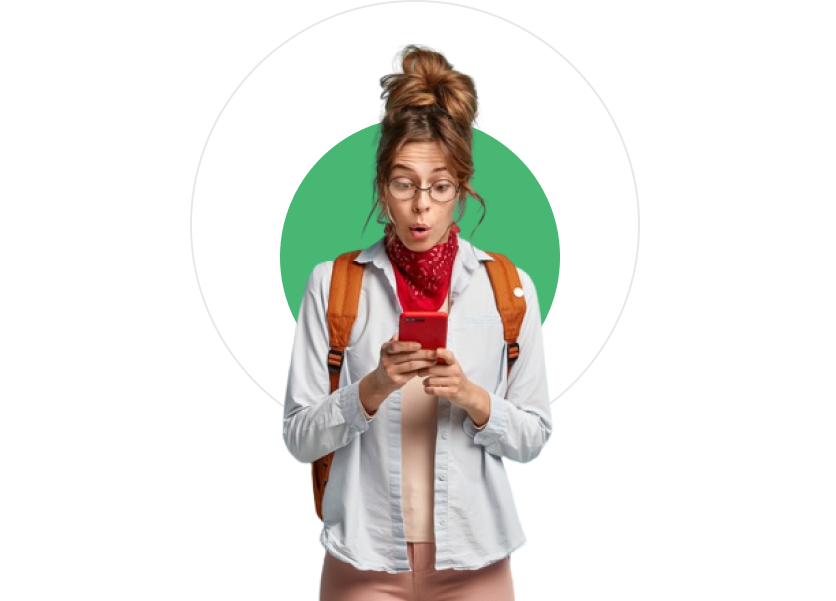
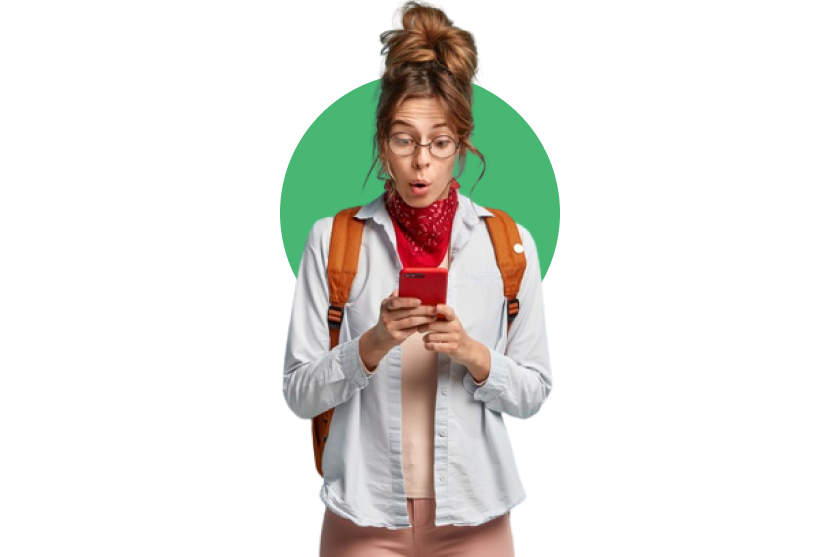
feat: animation set, form set

diff --git a/style/main.css b/style/main.css
@@ -1,21 +1,121 @@
 .main__hero {
     position: relative;
-    overflow: hidden;
-    /* height: 660px; */
 
 }
 
 .hero__wrap-hero {
     position: absolute;
-    top: 103px;
+    top: 29px;
     left: 484px;
     z-index: -1;
-    width: 836px;
-    /* height: 557px; */
 }
 
-.hero__hero {
+.hero__wrap-image {
+    position: relative;
+    top: 74px;
+    left: 0;
+    max-width: 886px;
+    width: max-content;
+}
+
+.hero_flags {
+    border: 2px solid #E8E8E8;
+    border-radius: 50%;
+    max-width: 450px;
+    height: 450px;
     width: 100%;
+    top: 30px;
+    left: 190px;
+    position: absolute;
+    z-index: -2;
+}
+
+.hero__wrap-flag {
+    position: absolute;
+    --spinState: paused;
+
+    animation-name: startmove, spin;
+    animation-duration: 2s, 5s;
+    animation-timing-function: linear;
+    animation-iteration-count: 1, infinite;
+    animation-delay: calc(3s + var(--numb)*0.4s), calc(-3s - var(--numb)*1s);
+    animation-fill-mode: both, both;
+    animation-play-state: running, var(--spinState);
+    width: 100%;
+    /* left: 405px; */
+
+    height: 100%;
+    line-height: 0;
+}
+
+.hero__flag {
+    --spinState: paused;
+    position: relative;
+    border: 10px solid #FFF;
+    border-radius: 50%;
+    animation: spin 5s linear infinite;
+    animation-direction: reverse;
+    animation-delay: calc(-3s - var(--numb)*1s);
+    animation-play-state: var(--spinState);
+    line-height: 0;
+    width: max-content;
+    margin: auto;
+    /* transform: translate(0, -50%); */
+}
+
+.hero__flag img {
+    top: -50%;
+    position: relative;
+}
+
+@keyframes startmove {
+    0% {
+        height: 0px;
+        top: 230px;
+    }
+
+    100% {
+        /* height: 460px; */
+        height: 100%;
+        top: 0px;
+    }
+}
+
+
+@keyframes spin {
+    0% {
+        transform: rotate(0deg);
+    }
+
+    20% {
+        transform: rotate(70deg);
+    }
+
+    40% {
+        transform: rotate(110deg);
+    }
+
+    44% {
+        transform: rotate(135deg);
+    }
+
+    56% {
+        transform: rotate(225deg);
+    }
+
+
+    60% {
+        transform: rotate(250deg);
+    }
+
+    80% {
+        transform: rotate(290deg);
+    }
+
+    100% {
+        transform: rotate(360deg);
+    }
+
 }
 
 .hero__wrap-content {
@@ -27,7 +127,6 @@
     color: #2D2D2D;
     font-weight: 700;
     position: relative;
-    /* height: 183px; */
     margin-bottom: 22px;
 }
 
@@ -80,6 +179,18 @@
     font-family: Roboto, sans-serif;
     background-color: transparent;
     /* padding-right: 37px; */
+}
+
+.hero__wrap-input_error {
+    outline: 4px solid #FF8345;
+    position: relative;
+    --error-val: "";
+}
+
+.hero__wrap-input_error::after {
+    color: #FF8345;
+    position: absolute;
+    content: var(--error-val);
 }
 
 .hero__input:focus-visible {
@@ -194,7 +305,11 @@
     }
 
     .hero__input {
-        font-size: 14px;
+        font-size: 12px;
+    }
+
+    .hero__wrap-input_error::after {
+        font-size: 12px;
     }
 
     .hero__button-find {

diff --git a/index.html b/index.html
@@ -56,7 +56,36 @@
         <div class="container main__container">
             <section class="main__hero hero">
                 <div class="hero__wrap-hero">
-                    <img src="./image/hero.png" alt="Hero image" class="hero__hero">
+                    <div class="hero__wrap-image">
+                        <img class="hero__hero" src="./image/hero.png" alt="Hero image">
+                    </div>
+                    <div class="hero_flags">
+                        <div class="hero__wrap-flag" style="--numb: 0;">
+                            <div class="hero__flag" style="--numb: 0; top: -25px;">
+                                <img src="./image/lang1.png" alt="flag">
+                            </div>
+                        </div>
+                        <div class="hero__wrap-flag" style="--numb: 1;">
+                            <div class="hero__flag" style="--numb: 1; top: -40px;">
+                                <img src="./image/lang2.png" alt="flag">
+                            </div>
+                        </div>
+                        <div class="hero__wrap-flag" style="--numb: 2;">
+                            <div class="hero__flag" style="--numb: 2; top: -30px;">
+                                <img src="./image/lang3.png" alt="flag">
+                            </div>
+                        </div>
+                        <div class="hero__wrap-flag" style="--numb: 3;">
+                            <div class="hero__flag" style="--numb: 3; top: -35px;">
+                                <img src="./image/lang4.png" alt="flag">
+                            </div>
+                        </div>
+                        <div class="hero__wrap-flag" style="--numb: 4;">
+                            <div class="hero__flag" style="--numb: 4; top: -25px;">
+                                <img src="./image/lang5.png" alt="flag">
+                            </div>
+                        </div>
+                    </div>
                 </div>
 
                 <div class="hero__wrap-content">
@@ -72,7 +101,8 @@
                     </div>
                     <form class="hero__form">
                         <fieldset class="hero__wrap-input">
-                            <input type="text" class="hero__input" placeholder="Where do you want to call?">
+                            <input type="text" class="hero__input" maxlength="12"
+                                placeholder="Where do you want to call?">
                             <button class="hero__button-find" type="submit">
                                 <svg xmlns="http://www.w3.org/2000/svg" width="27" height="27" viewBox="0 0 27 27"
                                     fill="none">

diff --git a/script/script.js b/script/script.js
@@ -1,3 +1,5 @@
+// MENU SETTINGS
+
 const menuItems = document.querySelector(".menu__items");
 const menuBtn = document.querySelector(".menu__btn");
 const headerContainer = document.querySelector(".header__container");
@@ -26,3 +28,53 @@ window.addEventListener('resize', (e) => {
         closeMenu();
     }
 })
+
+// ANIMATION SPIN
+
+const startSpin = () => {
+    const heroFlags = document.querySelectorAll(".hero__wrap-flag, .hero__flag");
+    heroFlags.forEach(element => {
+        element.style.setProperty("--spinState", "running");
+    });
+}
+
+setTimeout(startSpin, 7000);
+
+//FORM SETTINGS
+const buttonFind = document.querySelector('.hero__button-find');
+const formFind = document.querySelector('.hero__form');
+const heroInput = document.querySelector('.hero__input');
+const heroWrapInput = document.querySelector('.hero__wrap-input');
+
+const errorSubmit = (errorText, event) => {
+    heroWrapInput.classList.add("hero__wrap-input_error");
+    heroWrapInput.style.setProperty("--error-val", errorText);
+    event.preventDefault();
+    console.error("Отправка не удалась");
+}
+
+const formSubmit = (event) => {
+    if (heroInput.value.length < 4) {
+        errorSubmit("'Длина меньше 4 символов'", event);
+    }
+    else if (heroInput.value.search(/[\!\@\#\$\%\^\&\*\(\)]/) >= 0) {
+        errorSubmit("'Недопустимые символы: !@#$%^&*()'", event);
+    }
+
+    else {
+        if (heroWrapInput.classList.contains("hero__wrap-input_error"))
+            heroWrapInput.classList.remove("hero__wrap-input_error");
+        console.log("Отправка удалась");
+    }
+}
+
+const inputTextChange = (event) => {
+    if (heroWrapInput.classList.contains("hero__wrap-input_error"))
+        heroWrapInput.classList.remove("hero__wrap-input_error");
+    if (heroInput.value.search(/[\!\@\#\$\%\^\&\*\(\)]/) >= 0) {
+        heroInput.value = heroInput.value.replace(/[\!\@\#\$\%\^\&\*\(\)]/, '');
+    }
+}
+
+formFind.addEventListener("submit", formSubmit);
+heroInput.addEventListener("input", inputTextChange);

diff --git a/style/base.css b/style/base.css
@@ -91,7 +91,7 @@ fieldset {
 
 .container {
     --padding: 30px;
-    --width: 1145px;
+    --width: 1155px;
     max-width: calc(var(--width) + 2*var(--padding));
     margin: 0 auto;
     padding-right: var(--padding);
